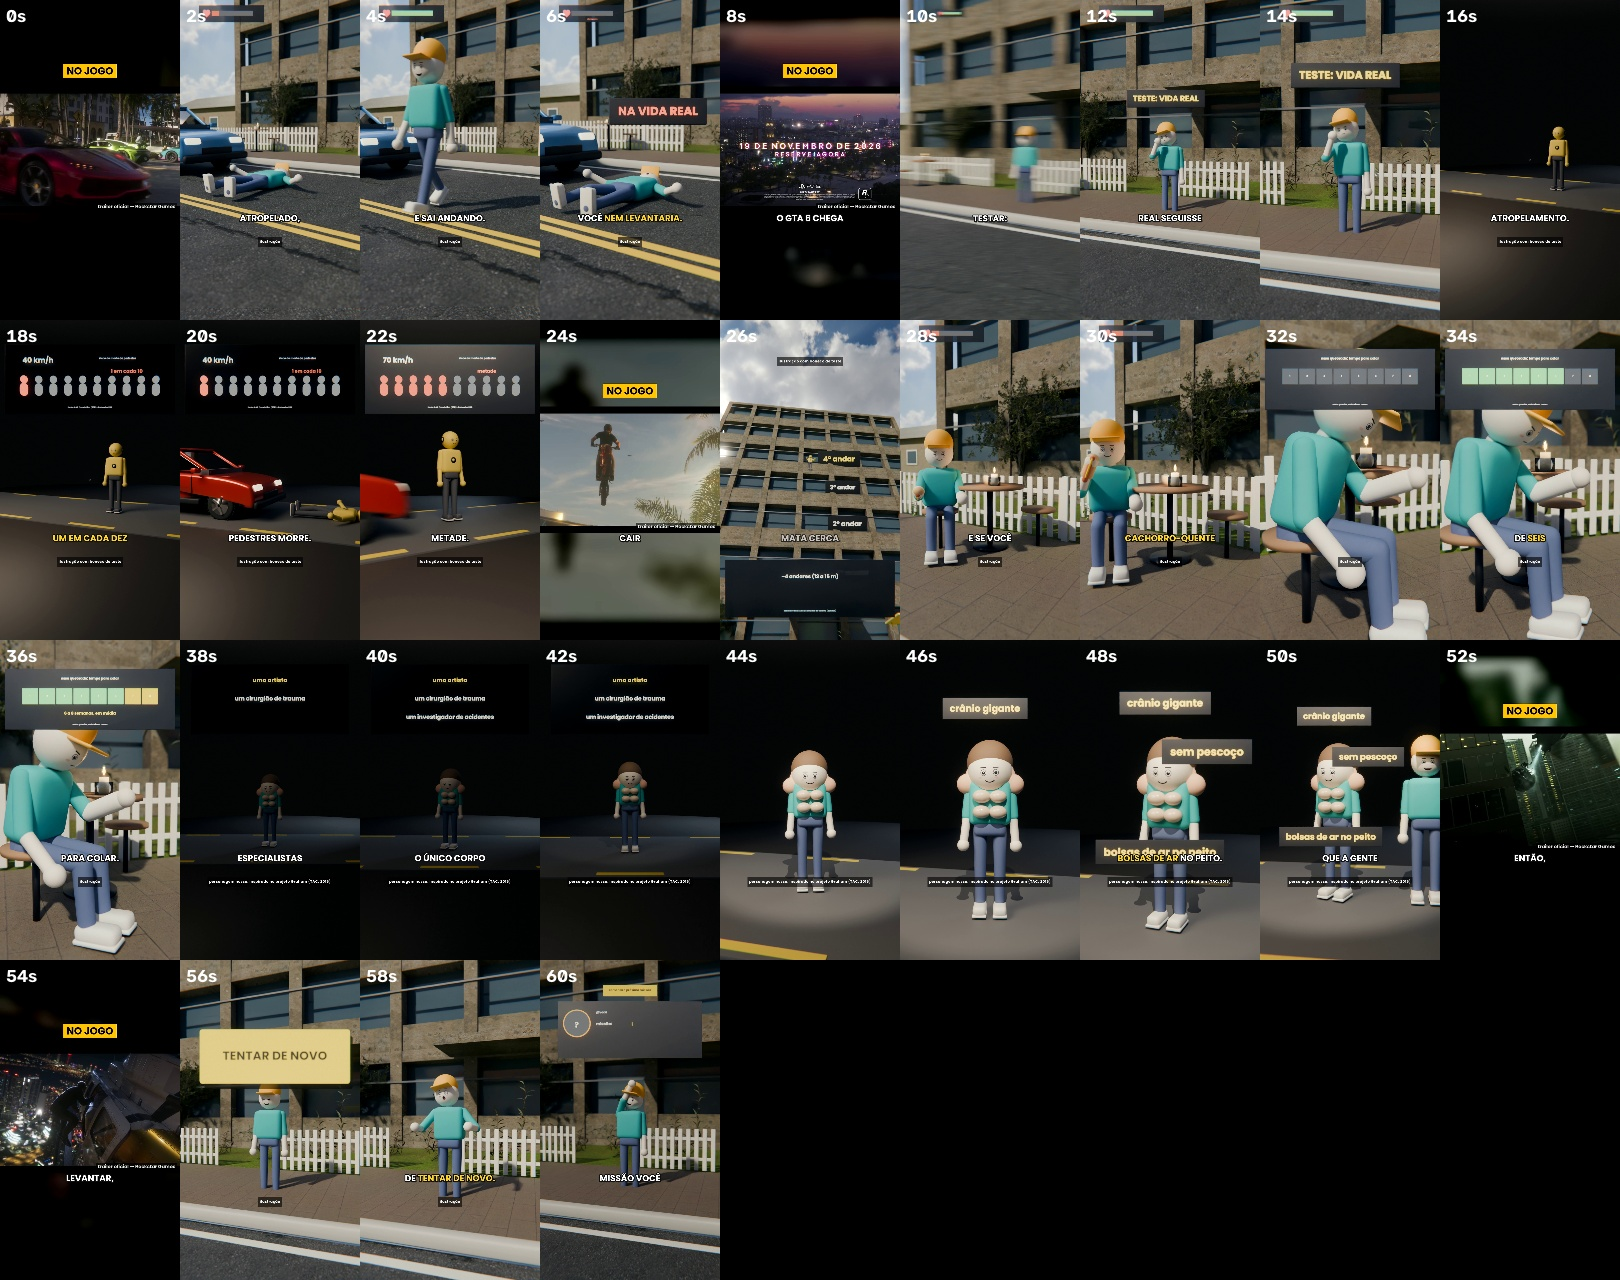
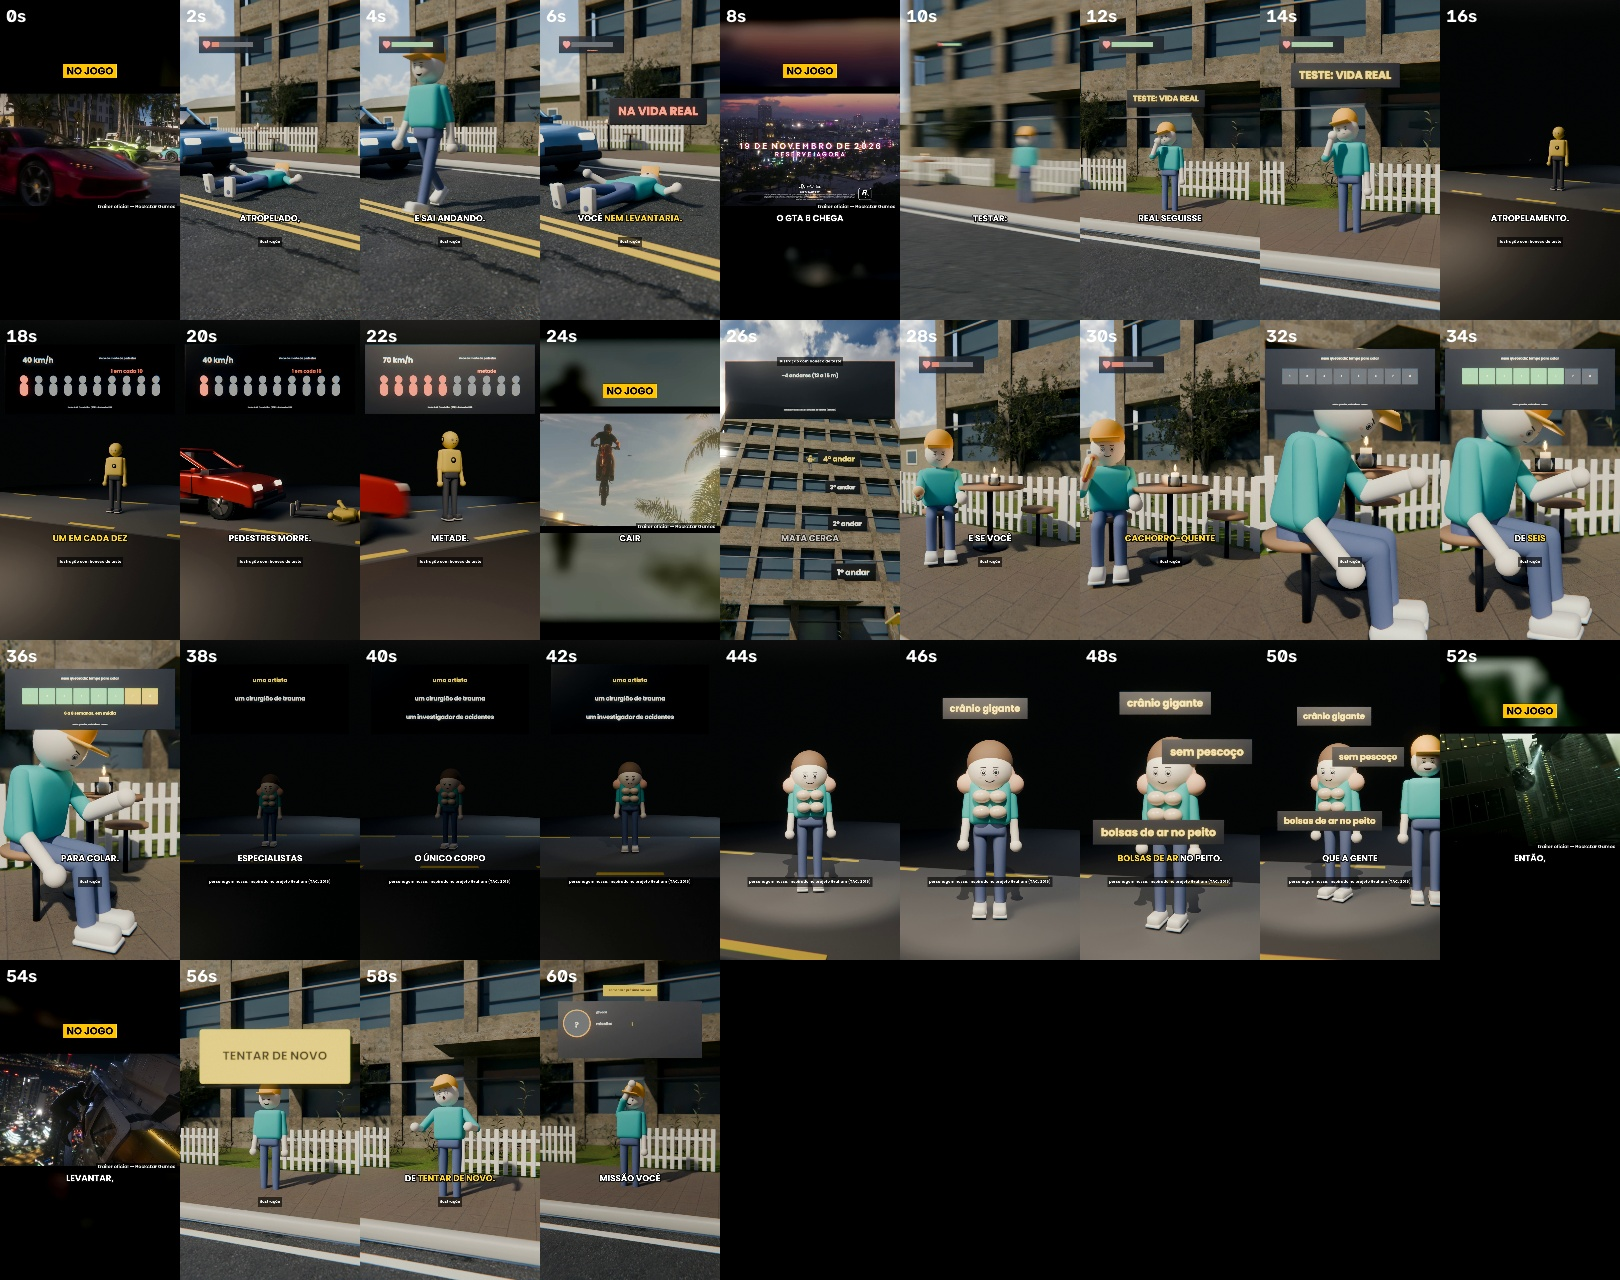
V09 v2: montagem com zonas seguras e tensão, QC, thumbnail, changelog v0.11
Claude-Session: https://claude.ai/code/session_01Adyz318NBz57nGHwGc8mF6

diff --git a/projeto_videos3d/CHANGELOG.md b/projeto_videos3d/CHANGELOG.md
@@ -5,6 +5,14 @@
 - `scripts/add_narration.py`: MP3 → MP4 com legenda sincronizada, ducking e −14 LUFS.
 - Para recuperar: `git checkout be24c75 -- projeto_videos3d` (a tag não pôde ser enviada ao GitHub: o acesso desta sessão só permite o branch de trabalho).
 
+## v0.11 — vídeo 09 "E se a vida real seguisse as regras do GTA?" + zonas seguras 9:16 + tensão (2026-11-17)
+- Vídeo 09 (61,9 s, 1857 quadros, render nativo 720x1280 ampliado para 1080x1920). A versão 1 (antes dos ajustes) foi guardada em `v2/ep09/out/..._v1.mp4` (fora do git), e os quadros antigos em `v2/ep09/frames_v1/`.
+- Zonas seguras 9:16 (TikTok, Reels, Shorts): o HUD desceu, o painel da queda subiu e as notas saíram da faixa da legenda. Os planos A1, B1, D1, D2 e E2 foram refeitos. Regras em `v2/ESTILO.md` §4.
+- Camada de tensão/suspense (`v2/lib/tensao.py` + `v2/epXX/tensao_cfg.py`) para os vídeos 09, 10 e 11. Ela entra no leito de efeitos e é abaixada pela voz. Sem o arquivo, a montagem antiga é usada (§6).
+- QC: aprovado, −14 LUFS, TP −1,5, correlação da narração 0,997. Thumbnail: `thumbnails/09_thumb.json`.
+- Materiais e texturas melhorados no vídeo 10 (§5). Regra de CTA no fim do roteiro (§7).
+- Quadros dos vídeos 01–05 apagados com autorização do usuário para liberar disco. Os MP4 entregues foram mantidos.
+
 ## v0.10 — vídeo 08 "E se o fogo nunca tivesse sido descoberto?" (2026-11-16)
 - Tema enviado pelo inscrito @desORDEM2026. O comentário dele aparece num cartão próprio (avatar, nome e texto exato), sem copiar a interface da plataforma.
 - Primeiro vídeo inteiro no estilo 2: 17 planos e 1977 quadros, render nativo 720x1280 com 8 amostras, ampliado para 1080x1920.
